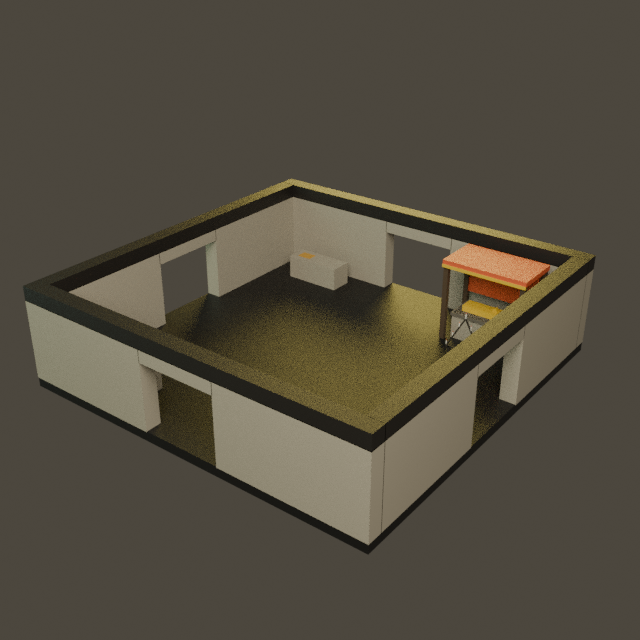
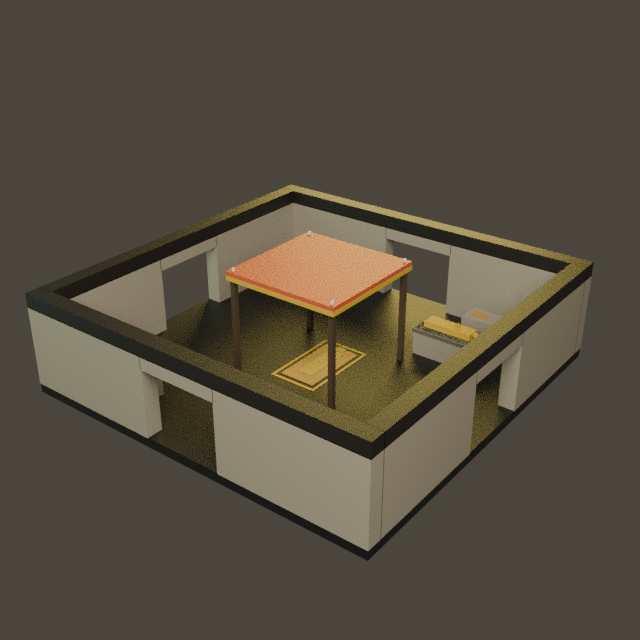
feat: the Late Medieval centre room reads as the castle's goal
The Effigy Crypt, always the castle's centre cell, had its tomb in the north-east corner and an
empty middle. The kit keeps a clear cross between the archways, so the centre is now marked flush
and overhead: the founder's gilt monumental brass on the floor under a madder hearse on four posts
with a crown of candles, the raised effigy tomb beside the walkway, a lesser tomb in every corner.
Six loot anchors, the brass first, and the crypt now puts its richest item on the first anchor.
Built with Blender 5.2: 992/1600 tris, all checks pass, a second build is byte-identical.

Changed region(s): [[0.0312, 0.2812, 0.9375, 0.8125], [0.0625, 0.5938, 0.5938, 0.875], [0.5938, 0.8125, 0.625, 0.8438]]

diff --git a/Tools/AssetPipeline/castle_builders_late_crypt.py b/Tools/AssetPipeline/castle_builders_late_crypt.py
@@ -131,10 +131,42 @@ def build_late_charnel_house(bm, uv):
 
 
 def build_late_effigy_crypt(bm, uv):
-    """docs/art/rooms/concept/LateMedieval/LateEffigyCrypt.svg"""
+    """docs/art/rooms/concept/LateMedieval/LateEffigyCrypt.svg, re-laid 2026-09-24 so the centre reads
+    as the castle's destination (docs/plans/staging-playtest-2-2026-09-24.md, part 3).
+
+    The castle's centre cell is always this room, and the kit keeps a clear cross between the
+    archways (validate_in_blender: nothing below 2.0 m within 1.6 m of either centre line), so the
+    centre is marked flat on the floor and overhead rather than with a tomb in the way."""
     h, fz = room_shell(bm, uv, "Crypt")
-    # NE: the founder's tomb chest and his gilded effigy.
-    fx, fy, fh = 3.6, 4.2, 0.9
+    # Centre, on the floor: the founder's monumental brass, his effigy laid into it, in a gilt border.
+    cb._box(bm, uv, "bronze", (0.0, 0.0, fz + 0.015), (1.2, 2.3, 0.03))
+    cb._box(bm, uv, GOLD, (0.0, 0.1, fz + 0.04), (0.5, 1.7, 0.02))
+    cb._box(bm, uv, GOLD, (0.0, 1.05, fz + 0.04), (0.28, 0.28, 0.02))
+    # The border: the long sides run full length, the ends fit between them.
+    for dx, dy, sx, sy in ((0.0, 1.35, 1.48, 0.06), (0.0, -1.35, 1.48, 0.06), (0.77, 0.0, 0.06, 2.76), (-0.77, 0.0, 0.06, 2.76)):
+        cb._box(bm, uv, GOLD, (dx, dy, fz + 0.01), (sx, sy, 0.02))
+    cb._anchor(0.0, 0.0, fz + 0.03)
+    # Overhead: the hearse, a madder tester with a gilt fringe on four tall oak posts standing just
+    # outside the walkway, and a crown of candles hung beneath it, all above head height.
+    ph, post = fz + 3.2, 1.8
+    for dx in (-post, post):
+        for dy in (-post, post):
+            cb._box(bm, uv, TIMBER, (dx, dy, (fz + ph) / 2), (0.14, 0.14, ph - fz))
+            mk.paint(bm, mk.add_cylinder(bm, 0.05, 0.25, loc=(dx, dy, ph + 0.125), segments=6), LINEN, uv)
+    cb._box(bm, uv, CLOTH, (0.0, 0.0, ph + 0.075), (2 * post + 0.3, 2 * post + 0.3, 0.15))
+    for dx, dy, sx, sy in ((0.0, post + 0.15, 2 * post + 0.27, 0.03), (0.0, -post - 0.15, 2 * post + 0.27, 0.03),
+                           (post + 0.15, 0.0, 0.03, 2 * post + 0.3), (-post - 0.15, 0.0, 0.03, 2 * post + 0.3)):
+        cb._box(bm, uv, GOLD, (dx, dy, ph - 0.05), (sx, sy, 0.12))
+    crown = fz + 2.4
+    cb._box(bm, uv, IRON, (0.0, 0.0, (crown + ph) / 2), (0.04, 0.04, ph - crown))
+    for dx, dy, sx, sy in ((0.0, 0.7, 1.36, 0.04), (0.0, -0.7, 1.36, 0.04), (0.7, 0.0, 0.04, 1.44), (-0.7, 0.0, 0.04, 1.44)):
+        cb._box(bm, uv, IRON, (dx, dy, crown), (sx, sy, 0.04))
+    cb._box(bm, uv, IRON, (0.0, 0.0, crown), (1.36, 0.04, 0.04))
+    for x, y in ((-0.7, -0.7), (0.0, -0.7), (0.7, -0.7), (0.7, 0.0), (0.7, 0.7), (0.0, 0.7), (-0.7, 0.7), (-0.7, 0.0)):
+        mk.paint(bm, mk.add_cylinder(bm, 0.02, 0.16, loc=(x, y, crown + 0.1), segments=6), LINEN, uv)
+        mk.paint(bm, mk.add_cylinder(bm, 0.014, 0.05, loc=(x, y, crown + 0.205), segments=4, radius2=0.003), CLOTH, uv)
+    # NE, beside the walkway: the founder's raised tomb chest and his gilded effigy.
+    fx, fy, fh = 3.0, 2.9, 0.9
     cb._box(bm, uv, WALL, (fx, fy, fz + fh / 2), (2.2, 1.0, fh))
     cb._box(bm, uv, "vellum_faint", (fx, fy, fz + fh - 0.04), (2.28, 1.08, 0.08))
     top = fz + fh
@@ -142,33 +174,8 @@ def build_late_effigy_crypt(bm, uv):
     ek.sphere(bm, uv, GOLD, fx + 0.8, fy, top + 0.02, 0.11, segments=8, rings=4)
     ek.prism(bm, uv, GOLD, [(-0.1, 0.0), (0.1, 0.0), (0.0, 0.16)], 0.12, loc=(fx + 0.15, fy, top + 0.2), along="y")
     cb._anchor(fx, fy + 0.36, top)
-    # The canopy: four oak posts, the madder tester and its gilt fringe, hangings at the back.
-    ch = fz + 2.6
-    for dx in (-1.3, 1.3):
-        for dy in (-0.7, 0.7):
-            cb._box(bm, uv, TIMBER, (fx + dx, fy + dy, (fz + ch) / 2), (0.14, 0.14, ch - fz))
-    cb._box(bm, uv, CLOTH, (fx, fy, ch + 0.075), (2.8, 1.6, 0.15))
-    cb._box(bm, uv, GOLD, (fx, fy - 0.815, ch - 0.03), (2.8, 0.03, 0.08))
-    cb._box(bm, uv, CLOTH, (fx, fy + 0.7, (top + 0.3 + ch) / 2), (2.6, 0.04, ch - top - 0.3))
-    # The candle hearse before the tomb: legs, base bar, two sloped bars, seven candles.
-    hx, hy, hw, hh = 3.6, 2.5, 1.2, 1.1
-    base = fz + 0.4
-    for dx in (-hw / 2 + 0.1, hw / 2 - 0.1):
-        cb._box(bm, uv, IRON, (hx + dx, hy, fz + 0.2), (0.04, 0.04, 0.4))
-    cb._box(bm, uv, IRON, (hx, hy, base), (hw, 0.04, 0.04))
-    tilt = math.atan2(hw / 2, hh)
-    length = math.hypot(hw / 2, hh)
-    for s in (-1, 1):
-        mk.paint(bm, mk.add_box(bm, (0.04, 0.04, length), loc=(hx + s * hw / 4, hy, base + hh / 2),
-                                rot=Euler((0, -s * tilt, 0))), IRON, uv)
-    for k in range(7):
-        t = k / 6
-        x = hx - hw / 2 + t * hw
-        z = base + hh * (1 - abs(2 * t - 1))
-        mk.paint(bm, mk.add_cylinder(bm, 0.018, 0.16, loc=(x, hy, z + 0.08), segments=6), LINEN, uv)
-        mk.paint(bm, mk.add_cylinder(bm, 0.014, 0.05, loc=(x, hy, z + 0.185), segments=4, radius2=0.003), CLOTH, uv)
-    # NW, SE, SW: lesser tomb chests, a brass plate let into each lid.
-    for x, y in ((-3.6, 4.6), (3.6, -4.6), (-3.6, -4.6)):
+    # The four corners: lesser tomb chests, a brass plate let into each lid.
+    for x, y in ((3.6, 4.6), (-3.6, 4.6), (3.6, -4.6), (-3.6, -4.6)):
         cb._box(bm, uv, WALL, (x, y, fz + 0.4), (2.0, 0.8, 0.8))
         cb._box(bm, uv, "bronze", (x - 0.55, y, fz + 0.805), (0.5, 0.35, 0.01))
         cb._anchor(x, y, fz + 0.8)

diff --git a/Assets/_Project/Scripts/Runtime/Raid/LootPlacementPlanner.cs b/Assets/_Project/Scripts/Runtime/Raid/LootPlacementPlanner.cs
@@ -112,8 +112,12 @@ namespace RogueAi.Raid
                         count = Mathf.Min(count, anchors.Length);
                 }
 
-                // Each item on its own anchor: a shuffled prefix of the room's anchors.
-                int[] order = hasAnchors ? ShuffledIndices(anchors.Length, rng) : null;
+                // Each item on its own anchor: a shuffled prefix of the room's anchors. The crypt
+                // centre takes its anchors in authored order, so its richest item sits on the first,
+                // the one the room's art puts at the centre (the Late crypt's floor brass).
+                int[] order = !hasAnchors ? null
+                    : isCryptFinal ? ShuffledIndices(anchors.Length, null)
+                    : ShuffledIndices(anchors.Length, rng);
                 for (int k = 0; k < count; k++)
                 {
                     RaidLootTable.Entry entry = isCryptFinal && k == 0 ? RichestOf(pool) : PickWeighted(pool, rng);
@@ -174,12 +178,13 @@ namespace RogueAi.Raid
         private static Vector3 AtAnchor(ProceduralCastleData.PlacedModule module, Vector3 anchor) =>
             module.Position + module.Rotation * anchor + Vector3.up * AnchorLift;
 
+        /// <summary>0..length-1 shuffled by <paramref name="rng"/>, or in order when it is null.</summary>
         private static int[] ShuffledIndices(int length, System.Random rng)
         {
             var order = new int[length];
             for (int i = 0; i < length; i++)
                 order[i] = i;
-            for (int i = length - 1; i > 0; i--)
+            for (int i = length - 1; rng != null && i > 0; i--)
             {
                 int j = rng.Next(0, i + 1);
                 (order[i], order[j]) = (order[j], order[i]);

diff --git a/Assets/_Project/Scripts/Tests/Editor/LootAmountTests.cs b/Assets/_Project/Scripts/Tests/Editor/LootAmountTests.cs
@@ -78,6 +78,14 @@ namespace RogueAi.Tests.Editor
                     int cryptItems = perRoom.TryGetValue(castle.CryptStartIndex, out List<Vector3> crypt) ? crypt.Count : 0;
                     Assert.AreEqual(Mathf.Max(1, cryptAnchors?.Length ?? 0), cryptItems,
                         $"{era} seed {seed}: the crypt centre should fill every one of its anchors.");
+                    if (cryptAnchors != null && cryptAnchors.Length > 0)
+                    {
+                        ProceduralCastleData.PlacedModule cryptRoom = castle.PlacedModules[castle.CryptStartIndex];
+                        Vector3 first = cryptRoom.Position + cryptRoom.Rotation * cryptAnchors[0] + Vector3.up * LootPlacementPlanner.AnchorLift;
+                        LootPlacement richest = plan.Find(p => p.ModuleIndex == castle.CryptStartIndex);
+                        Assert.Less(Vector3.Distance(first, richest.Position), 0.01f,
+                            $"{era} seed {seed}: the crypt's richest item should sit on its first anchor.");
+                    }
                     _generator.ClearGenerated();
                 }
 

diff --git a/docs/art/rooms/LateMedieval.md b/docs/art/rooms/LateMedieval.md
@@ -1176,29 +1176,36 @@ When the churchyard fills, the old graves are dug up and the bones come here. Th
 
 The family that built the castle is buried under it, and the man who began it lies in the north-east corner in gilt. His tomb chest is arcaded sandstone with a moulded lid, and on it his effigy lies in beaten gold, head on a pillow, hands joined, under a canopy of oak posts hung in madder with a gilt fringe. Before him a candle hearse, an iron triangle of seven candles, burns on the anniversary of his death and on every other day the chaplain is paid for. His descendants were buried more cheaply: plain chests in the other three corners with engraved brass plates let into their lids. The effigy is the richest thing in the Late castle and the hardest to carry.
 
+**Re-laid 2026-09-24** (docs/plans/staging-playtest-2-2026-09-24.md, part 3): this room is always
+the castle's centre cell, and with the founder's tomb in the north-east corner nothing marked the
+middle as the goal. The kit keeps a clear cross between the archways (nothing below 2.0 m within
+1.60 m of either centre line), so the centre is marked on the floor and overhead, and the raised
+tomb moves in beside it. The concept drawing above still shows the old corner layout.
+
 **Build** (kit metres: x east, y north, from the cell centre; heights above ground, floor top at 0.30)
 
 - Shell: the kit's Crypt shell, 12.0 × 12.0 × 0.30 m slab, 0.50 m dressed-sandstone walls 3.00 m clear, a 0.45 m dark trim course, an archway 2.60 × 2.16 m centred on every wall.
-- Founder's tomb (NE): sandstone chest 2.20 × 1.00 × 0.90 m at (3.60, 4.20), long axis east–west, arcaded sides (albedo), a moulded lid 2.28 × 1.08 × 0.08 m.
-- Gilded effigy: a gilt body 1.60 × 0.45 × 0.20 m on the lid, head r 0.11 m at the east end, hands at prayer.
-- Canopy: four oak posts 0.14 m square at the tomb's corners plus 0.20 m (x 2.30 / 4.90, y 3.50 / 4.90) to 2.60 m above the floor; a madder tester 2.80 × 1.60 × 0.15 m on them; a gilt fringe strip along its south edge; a madder hanging 2.60 m wide between the north posts from 1.50 m to the tester.
-- Candle hearse: iron, before the tomb at (3.60, 2.50): two legs 0.40 m, a base bar 1.20 m, two sloped bars meeting at 1.80 m above ground, seven candles up its edges with flames.
-- Lesser tombs: three sandstone chests 2.00 × 0.80 × 0.80 m at (−3.60, 4.60), (3.60, −4.60), (−3.60, −4.60), long axis east–west.
-- Brass plates: an engraved brass plate 0.50 × 0.35 m let into each lesser lid, west of centre.
-- The crossing: bare floor between all four archways.
+- Founder's brass (centre, flush): a monumental brass 1.20 × 2.30 × 0.03 m at (0, 0), long axis north–south, the effigy laid into it in gilt (body 0.50 × 1.70 m, head a 0.28 m square to the north), a gilt border strip round it. Walkable.
+- The hearse (overhead): four oak posts 0.14 m square at (±1.80, ±1.80), just outside the walkway, to 3.20 m above the floor, a candle on each post top; a madder tester 3.90 × 3.90 × 0.15 m on them; a gilt fringe 0.12 m deep round it; a square iron candle crown 1.44 m across hung from the tester's centre at 2.40 m, eight candles on it.
+- Founder's tomb (NE, beside the walkway): sandstone chest 2.20 × 1.00 × 0.90 m at (3.00, 2.90), long axis east–west, a moulded lid 2.28 × 1.08 × 0.08 m, the gilded effigy on it (1.60 × 0.45 × 0.20 m, head r 0.11 m at the east end, hands at prayer).
+- Lesser tombs: four sandstone chests 2.00 × 0.80 × 0.80 m at (±3.60, ±4.60), long axis east–west, an engraved brass plate 0.50 × 0.35 m let into each lid, west of centre.
+- The crossing: clear below 2.0 m between all four archways; only the flush brass lies in it.
 
 **Sockets**
 
 - Archway ×4, centred on each wall: 2.60 × 2.16 m (Crypt), all open
+- The founder's brass: a loot anchor at its centre, on the floor
 - Founder's lid: a loot anchor beside the effigy at 1.20 m
-- Lesser tomb lids: three loot anchors at 1.10 m
+- Lesser tomb lids: four loot anchors at 1.10 m
 
-**Loot anchors**
+**Loot anchors** (in this order; the raid puts the crypt's richest item on L1)
 
-- L1: the founder's lid, beside the effigy at (3.60, 4.56, 1.20)
-- L2: the NW lesser tomb at (-3.60, 4.60, 1.10)
-- L3: the SE lesser tomb at (3.60, -4.60, 1.10)
-- L4: the SW lesser tomb at (-3.60, -4.60, 1.10)
+- L1: the founder's brass, at the room's centre (0.00, 0.00, 0.33)
+- L2: the founder's lid, beside the effigy at (3.00, 3.26, 1.20)
+- L3: the NE lesser tomb at (3.60, 4.60, 1.10)
+- L4: the NW lesser tomb at (-3.60, 4.60, 1.10)
+- L5: the SE lesser tomb at (3.60, -4.60, 1.10)
+- L6: the SW lesser tomb at (-3.60, -4.60, 1.10)
 
 **Materials** (art-pass colour, then the kit's atlas pigment)
 
@@ -1213,9 +1220,9 @@ The family that built the castle is buried under it, and the man who began it li
 
 **In play**
 
-- The Late crypt's final room: the gilded effigy is the headline loot, lit by the hearse and visible from the north and east archways.
-- The canopy posts and hanging screen the founder's tomb from the north.
-- Four loot anchors, one per quadrant.
+- The Late crypt's final room and the castle's centre: from any archway you look straight at the
+  gilt brass under the madder hearse and its crown of candles, where the richest item lies.
+- Six loot anchors, all filled in a raid: the brass, the founder's lid and the four lesser tombs.
 
 ### LateUndercroftStair
 
